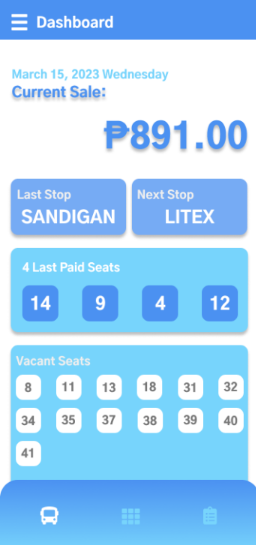
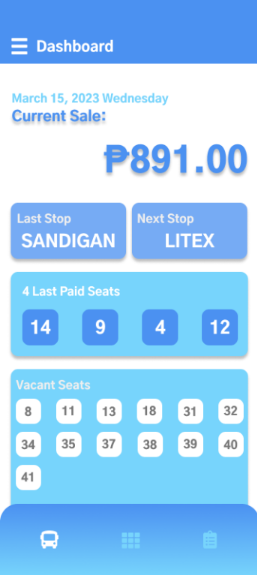
asdas

diff --git a/src/lib/sections/Projects.svelte b/src/lib/sections/Projects.svelte
@@ -166,8 +166,8 @@
   }
 
   .mobile-screen {
-    width: 160px;
-    height: 320px;
+    width: 180px;
+    height: 390px ;
   }
 
   .tech-tag {
